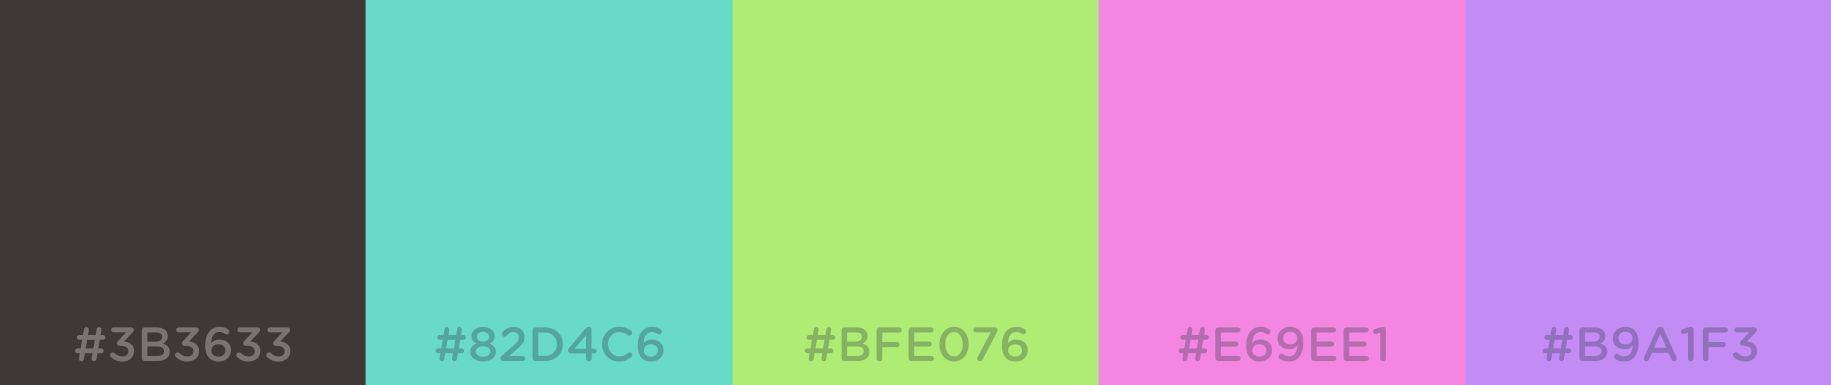
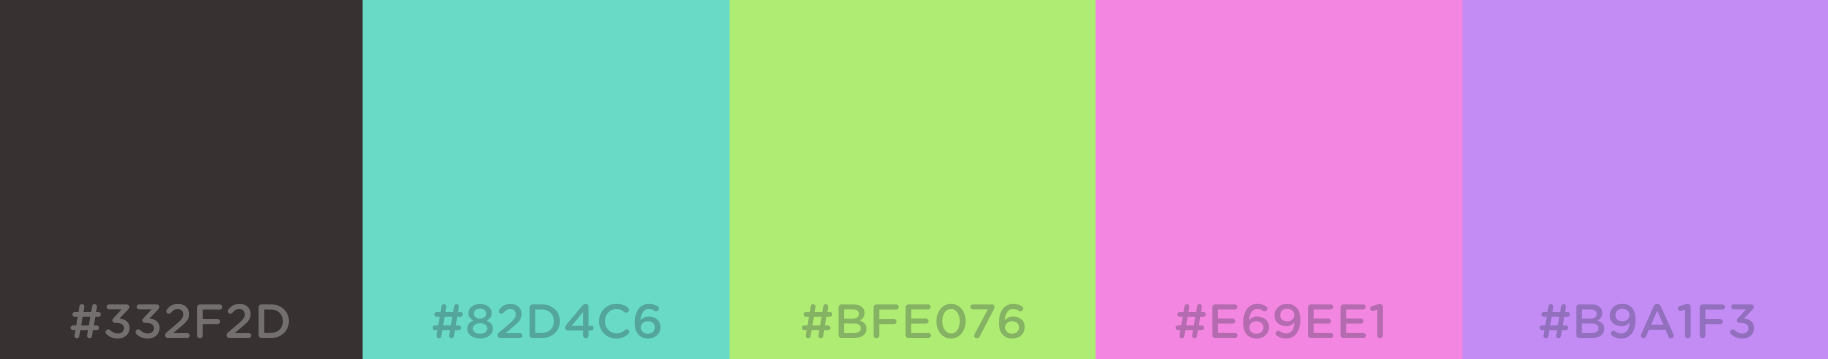
update readme and preview images

diff --git a/README.md b/README.md
@@ -3,7 +3,7 @@
 ### Palette
 ![Palette](palette.png)
 
-- `#3B3633`/`#ECEDEA`
+- `#332F2D`/`#ECEDEA`
 - `#82D4C6`
 - `#BFE076`
 - `#E69EE1`
